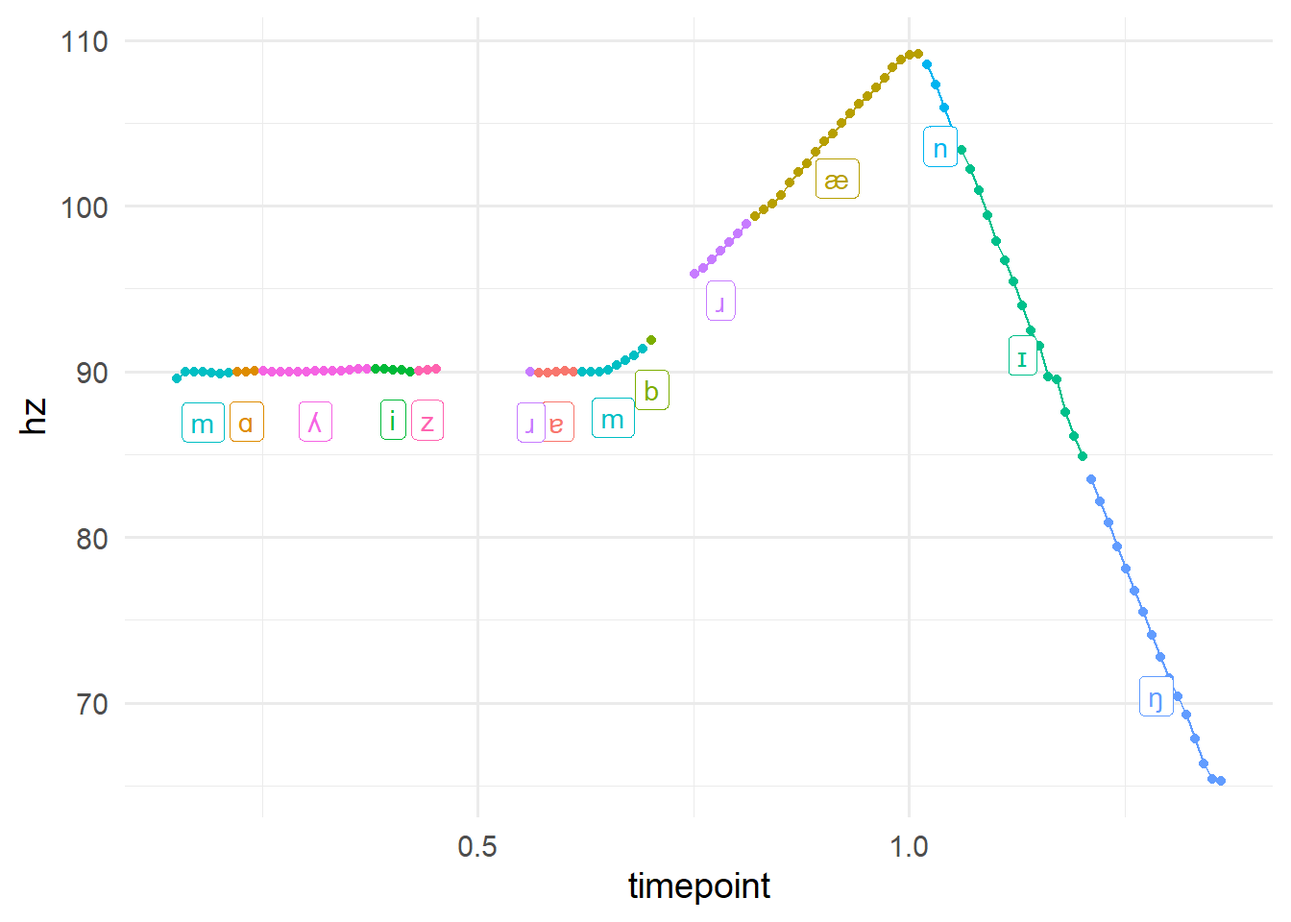
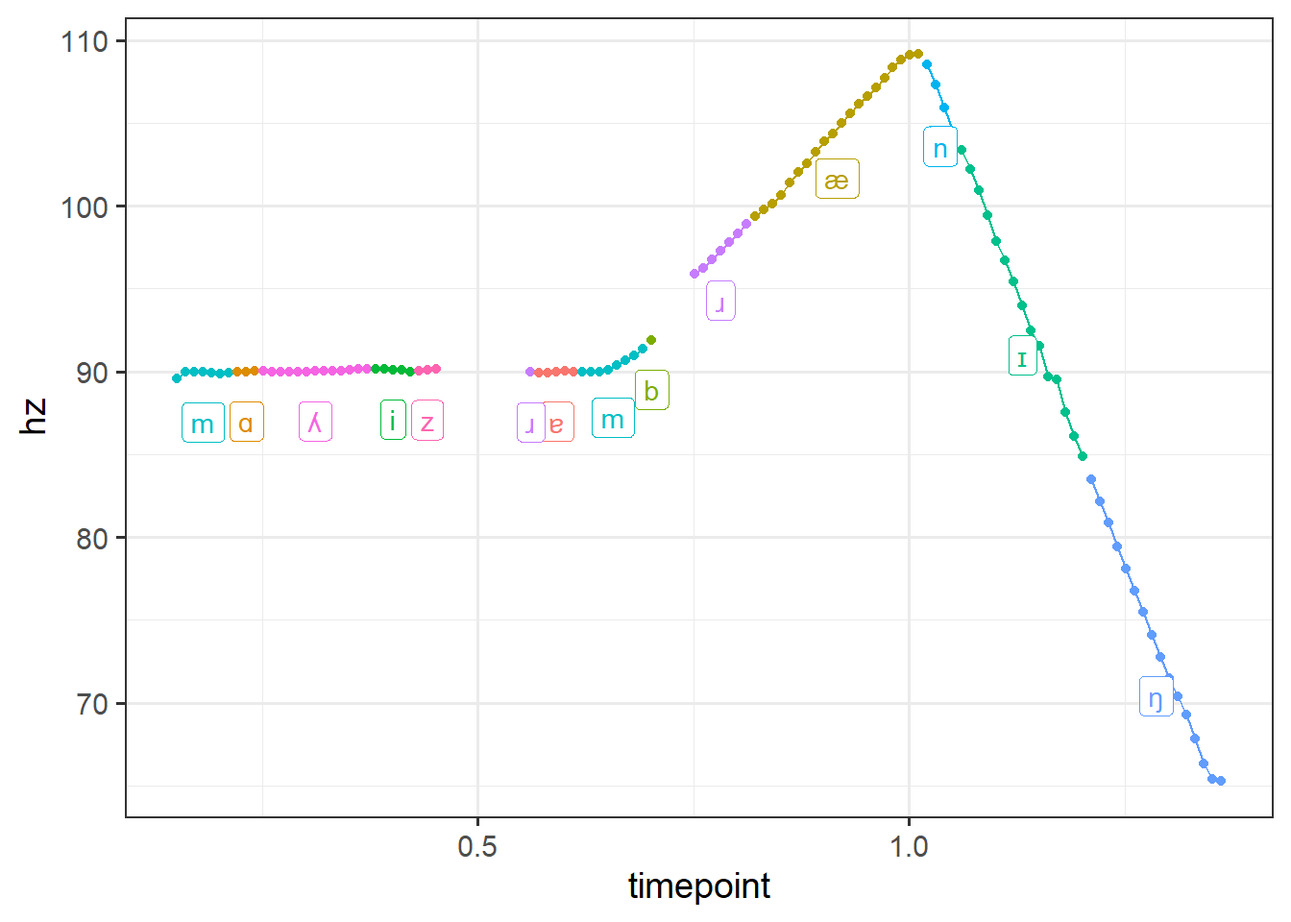
update pulse labeling with time normalizing example, citations, and session info

diff --git a/_site/posts/pulselabeling/pulse_labeling.html b/_site/posts/pulselabeling/pulse_labeling.html
@@ -86,6 +86,25 @@ code span.st { color: #4070a0; } /* String */
 code span.va { color: #19177c; } /* Variable */
 code span.vs { color: #4070a0; } /* VerbatimString */
 code span.wa { color: #60a0b0; font-weight: bold; font-style: italic; } /* Warning */
+div.csl-bib-body { }
+div.csl-entry {
+  clear: both;
+}
+.hanging div.csl-entry {
+  margin-left:2em;
+  text-indent:-2em;
+}
+div.csl-left-margin {
+  min-width:2em;
+  float:left;
+}
+div.csl-right-inline {
+  margin-left:2em;
+  padding-left:1em;
+}
+div.csl-indent {
+  margin-left: 2em;
+}
 </style>
 
 
@@ -127,6 +146,7 @@ code span.wa { color: #60a0b0; font-weight: bold; font-style: italic; } /* Warni
   }
 }</script>
 
+  <script src="https://cdn.jsdelivr.net/npm/mathjax@3/es5/tex-chtml-full.js" type="text/javascript"></script>
 
 <link rel="stylesheet" href="../../styles.css">
 </head>
@@ -218,10 +238,8 @@ code span.wa { color: #60a0b0; font-weight: bold; font-style: italic; } /* Warni
   <ul>
   <li><a href="#required-packages" id="toc-required-packages" class="nav-link active" data-scroll-target="#required-packages">Required packages</a></li>
   <li><a href="#example-with-one-file" id="toc-example-with-one-file" class="nav-link" data-scroll-target="#example-with-one-file">Example with one file</a></li>
-  <li><a href="#example-with-multiple-files" id="toc-example-with-multiple-files" class="nav-link" data-scroll-target="#example-with-multiple-files">Example with multiple files</a>
-  <ul class="collapse">
+  <li><a href="#example-with-multiple-files" id="toc-example-with-multiple-files" class="nav-link" data-scroll-target="#example-with-multiple-files">Example with multiple files</a></li>
   <li><a href="#piecewise-equal-pulses" id="toc-piecewise-equal-pulses" class="nav-link" data-scroll-target="#piecewise-equal-pulses">Piecewise equal pulses</a></li>
-  </ul></li>
   </ul>
 </nav>
     </div>
@@ -234,7 +252,7 @@ code span.wa { color: #60a0b0; font-weight: bold; font-style: italic; } /* Warni
 <p>A colleague of mine recently asked for help with a bit of a tricky problem. Pitch contours, when extracted from an acoustic signal, come in the form of a time series of discretized <em>pulses</em>: a (time, frequency) point. However, these contours occur over varying parts of the spoken sentence. In other words, the rises and falls in pitch occur over different words, syllables, and phones– all of which have varying durations. If we take a pitch contour over a single word from the productions of many speakers, then time normalize them, we don’t have access to the relative durations and landmarks of the syllables that make up the token. For instance, if two speakers rise from 110Hz to 220Hz over one syllable, this rise will be much steeper if the first syllable is 30% of the time normalized duration compared to if the first syllable is 60% of the time normalized duration. The problem then becomes two related problems:</p>
 <ol type="1">
 <li>How can we know which syllable a pulse appears in? (ie how to label the pulse with the syllable number)</li>
-<li>How can we assess a pulse’s timestamp relative to the timestamp of the syllable boundaries it occurs with? (eg how far into the syllable does the pulse occur)</li>
+<li>How can we assess a pulse’s timestamp relative to the syllable boundaries it occurs in? (eg how far into the syllable does the pulse occur)</li>
 </ol>
 <p>As it happens, this problem becomes fairly straightforward when using <a href="https://www.w3resource.com/sql/joins/perform-a-non-equi-join.php">non-equi joins</a>. These are joins (left, right, etc.) that match not merely on equivalence matching, but when more complex logical operations need to be used. In our case, we want to merge information about the pulses and their timestamps with information about the syllable boundary timestamps. We can accomplish this by joining two dataframes based on whether the pulse timestamp is between the start and end timestamps of a particular interval.</p>
 <p>In this post, I’ll show how this can be accomplished in R using the new non-equi join functionality added to <code>{dplyr}</code> version 1.1. In the process, I’ll also show off some tools from the <code>{rPraat}</code> package and the <code>{sosprosody}</code> package, which I am developing to support the analyses and data processing for my dissertation work. These packages provide some useful functionality for working with PitchTier and TextGrid objects from Praat. However, this functionality can also be accomplished through any non-equi join implementation. I’m familiar with the <code>{fuzzyjoin}</code> package, and <a href="https://www.r-bloggers.com/2021/02/the-unequalled-joy-of-non-equi-joins/">this post</a> provides some additional options.</p>
@@ -248,7 +266,7 @@ Note
 </div>
 </div>
 <div class="callout-body-container callout-body">
-<p>I am providing some resynthesized files here from my dissertation work, currently they’re not available publicly but will eventually be on the OSF as the work is published and presented. I won’t be discussing the details further in this post, but I’ll note that the phone labels were returned by the <a href="https://montreal-forced-aligner.readthedocs.io/en/latest/">Montreal Forced Aligner</a> and the syllable labels were hand coded.</p>
+<p>I am providing some resynthesized files here from my dissertation work, currently they’re not available publicly but will eventually be on the OSF as the work is published and presented. I won’t be discussing the details further in this post, but I’ll note that the phone labels were returned by the <a href="https://montreal-forced-aligner.readthedocs.io/en/latest/">Montreal Forced Aligner</a> (<span class="citation" data-cites="mfa">McAuliffe et al. (<a href="#ref-mfa" role="doc-biblioref">2017</a>)</span>) and the syllable labels were hand coded.</p>
 </div>
 </div>
 <section id="required-packages" class="level2">
@@ -277,8 +295,8 @@ Note
 </details>
 </div>
 </section>
-<section id="example-with-one-file" class="level1 page-columns page-full">
-<h1>Example with one file</h1>
+<section id="example-with-one-file" class="level2 page-columns page-full">
+<h2 class="anchored" data-anchor-id="example-with-one-file">Example with one file</h2>
 <p>Our goal: Associate each pitch pulse with an interval on a tier from a TextGrid.</p>
 <p>The approach: Non-equi joins. Given a dataframe for the pitch pulses and a dataframe for a tier from a TextGrid, when a pitch pulse <code>timepoint</code> lies between <code>interval_start</code> and <code>interval_end</code>, join <code>interval_start</code>, <code>interval_end</code>, and the interval <code>label</code>.</p>
 <p>First we’ll load our files, located in the <code>Files</code> directory. Because I’m working with just one example right now, I’ll write the strings out directly.</p>
@@ -301,7 +319,7 @@ Note
 </div>
 <div class="panel-center panel-grid page-columns page-full">
 <div class="g-col-24 g-col-lg-20 g-start-lg-2 page-columns page-full">
-<div class="cell panel-center column-body-outset">
+<div class="cell panel-center column-body-outset-right">
 <div class="cell-output cell-output-stdout">
 <pre><code>branning_1.PitchTier: 108 total pitch pulses.
 109|                                                                           |
@@ -397,7 +415,7 @@ Note
 <span id="cb13-2"><a href="#cb13-2" aria-hidden="true" tabindex="-1"></a>  <span class="fu">ggplot</span>(<span class="fu">aes</span>(<span class="at">x =</span> timepoint, <span class="at">y =</span> hz, <span class="at">color =</span> label, <span class="at">group =</span> interval_i)) <span class="sc">+</span></span>
 <span id="cb13-3"><a href="#cb13-3" aria-hidden="true" tabindex="-1"></a>  <span class="fu">geom_line</span>() <span class="sc">+</span></span>
 <span id="cb13-4"><a href="#cb13-4" aria-hidden="true" tabindex="-1"></a>  <span class="fu">geom_point</span>() <span class="sc">+</span></span>
-<span id="cb13-5"><a href="#cb13-5" aria-hidden="true" tabindex="-1"></a>  <span class="fu">theme_minimal</span>(<span class="at">base_size =</span> <span class="dv">14</span>) <span class="sc">+</span></span>
+<span id="cb13-5"><a href="#cb13-5" aria-hidden="true" tabindex="-1"></a>  <span class="fu">theme_bw</span>(<span class="at">base_size =</span> <span class="dv">14</span>) <span class="sc">+</span></span>
 <span id="cb13-6"><a href="#cb13-6" aria-hidden="true" tabindex="-1"></a>  <span class="co"># Add labels since there's a lot of colors</span></span>
 <span id="cb13-7"><a href="#cb13-7" aria-hidden="true" tabindex="-1"></a>  <span class="fu">geom_label</span>(<span class="at">data =</span> <span class="fu">summarize</span>(<span class="fu">group_by</span>(labeled_df, label, interval_i),</span>
 <span id="cb13-8"><a href="#cb13-8" aria-hidden="true" tabindex="-1"></a>                              <span class="at">timepoint =</span> <span class="fu">median</span>(timepoint),</span>
@@ -411,8 +429,8 @@ Note
 </div>
 <p>Looks great! Now we can adapt this same basic workflow of loading our Praat objects, converting to dataframes, and doing a non-equi join and apply it to all the files in a directory. Note that if you extracted F0 measurements using a method other than exporting PitchTier files from Praat, then you can still do all the same steps above but just omit the part where you read in the PitchTier files. Ultimately, all we’re looking for is a dataframe that says what file(s) we have, what the pulse timepoints are, and what the frequency values at those timepoints are; how we get there doesn’t really matter.</p>
 </section>
-<section id="example-with-multiple-files" class="level1">
-<h1>Example with multiple files</h1>
+<section id="example-with-multiple-files" class="level2">
+<h2 class="anchored" data-anchor-id="example-with-multiple-files">Example with multiple files</h2>
 <p>Here’s a pretty basic wrapper that encapsulates all of the previous steps into one function and operates over all the files in given directories containing TextGrids and PitchTiers.</p>
 <div class="callout-tip callout callout-style-default callout-captioned">
 <div class="callout-header d-flex align-content-center">
@@ -476,24 +494,24 @@ Tip
 <span id="cb14-44"><a href="#cb14-44" aria-hidden="true" tabindex="-1"></a>}</span></code><button title="Copy to Clipboard" class="code-copy-button"><i class="bi"></i></button></pre></div>
 </details>
 </div>
-<p>And now the helper can be used to process all of our files. If we needed to repeat this across, say, many production studies then this helper would save us a lot of copy-pasting.</p>
+<p>And now the helper can be used to process all of our files; we’ll use it again later when we start working with syllables instead of phones.</p>
 <div class="cell">
 <details open="">
 <summary>Code</summary>
-<div class="sourceCode cell-code" id="cb15"><pre class="sourceCode r code-with-copy"><code class="sourceCode r"><span id="cb15-1"><a href="#cb15-1" aria-hidden="true" tabindex="-1"></a>all_labeled_files <span class="ot">&lt;-</span> <span class="fu">label_pitch_pulses</span>()</span></code><button title="Copy to Clipboard" class="code-copy-button"><i class="bi"></i></button></pre></div>
+<div class="sourceCode cell-code" id="cb15"><pre class="sourceCode r code-with-copy"><code class="sourceCode r"><span id="cb15-1"><a href="#cb15-1" aria-hidden="true" tabindex="-1"></a>phone_labeled_df <span class="ot">&lt;-</span> <span class="fu">label_pitch_pulses</span>()</span></code><button title="Copy to Clipboard" class="code-copy-button"><i class="bi"></i></button></pre></div>
 </details>
 </div>
 <p>As before, we can plot the pitch contours for each of our files to check our work.</p>
 <div class="cell">
 <details open="">
 <summary>Code</summary>
-<div class="sourceCode cell-code" id="cb16"><pre class="sourceCode r code-with-copy"><code class="sourceCode r"><span id="cb16-1"><a href="#cb16-1" aria-hidden="true" tabindex="-1"></a>all_labeled_files <span class="sc">|&gt;</span> </span>
+<div class="sourceCode cell-code" id="cb16"><pre class="sourceCode r code-with-copy"><code class="sourceCode r"><span id="cb16-1"><a href="#cb16-1" aria-hidden="true" tabindex="-1"></a>phone_labeled_df <span class="sc">|&gt;</span> </span>
 <span id="cb16-2"><a href="#cb16-2" aria-hidden="true" tabindex="-1"></a>  <span class="fu">ggplot</span>(<span class="fu">aes</span>(<span class="at">x =</span> timepoint, <span class="at">y =</span> hz, <span class="at">group =</span> interval_i, <span class="at">color =</span> label)) <span class="sc">+</span></span>
 <span id="cb16-3"><a href="#cb16-3" aria-hidden="true" tabindex="-1"></a>  <span class="fu">geom_line</span>() <span class="sc">+</span></span>
 <span id="cb16-4"><a href="#cb16-4" aria-hidden="true" tabindex="-1"></a>  <span class="fu">geom_point</span>(<span class="at">size =</span> .<span class="dv">5</span>) <span class="sc">+</span></span>
 <span id="cb16-5"><a href="#cb16-5" aria-hidden="true" tabindex="-1"></a>  <span class="fu">facet_wrap</span>(<span class="sc">~</span>file) <span class="sc">+</span></span>
-<span id="cb16-6"><a href="#cb16-6" aria-hidden="true" tabindex="-1"></a>  <span class="fu">theme_minimal</span>(<span class="at">base_size =</span> <span class="dv">14</span>) <span class="sc">+</span></span>
-<span id="cb16-7"><a href="#cb16-7" aria-hidden="true" tabindex="-1"></a>  <span class="fu">geom_text</span>(<span class="at">data =</span> <span class="fu">summarize</span>(<span class="fu">group_by</span>(all_labeled_files, file, label, interval_i),</span>
+<span id="cb16-6"><a href="#cb16-6" aria-hidden="true" tabindex="-1"></a>  <span class="fu">theme_bw</span>(<span class="at">base_size =</span> <span class="dv">14</span>) <span class="sc">+</span></span>
+<span id="cb16-7"><a href="#cb16-7" aria-hidden="true" tabindex="-1"></a>  <span class="fu">geom_text</span>(<span class="at">data =</span> <span class="fu">summarize</span>(<span class="fu">group_by</span>(phone_labeled_df, file, label, interval_i),</span>
 <span id="cb16-8"><a href="#cb16-8" aria-hidden="true" tabindex="-1"></a>                             <span class="at">timepoint =</span> <span class="fu">median</span>(timepoint),</span>
 <span id="cb16-9"><a href="#cb16-9" aria-hidden="true" tabindex="-1"></a>                             <span class="at">hz =</span> <span class="fu">median</span>(hz) <span class="sc">-</span> <span class="dv">4</span>),</span>
 <span id="cb16-10"><a href="#cb16-10" aria-hidden="true" tabindex="-1"></a>            <span class="fu">aes</span>(<span class="at">label =</span> label)) <span class="sc">+</span></span>
@@ -505,6 +523,7 @@ Tip
 </div>
 </div>
 <p>Next I’ll show an example of how this might be useful beyond just labeling and coloring our pitch contours by interval.</p>
+</section>
 <section id="piecewise-equal-pulses" class="level2">
 <h2 class="anchored" data-anchor-id="piecewise-equal-pulses">Piecewise equal pulses</h2>
 <p>This is an example using the <code>piecewise_interpolate_pulses</code> function<a href="#fn2" class="footnote-ref" id="fnref2" role="doc-noteref"><sup>2</sup></a> from <code>sosprosody</code> to get equally spaced pulses within each section.<a href="#fn3" class="footnote-ref" id="fnref3" role="doc-noteref"><sup>3</sup></a> Here I’ll get 50 equally spaced pulses for each syllable in all of our words (which are all two syllables).</p>
@@ -524,39 +543,26 @@ Tip
 <div class="cell">
 <details open="">
 <summary>Code</summary>
-<div class="sourceCode cell-code" id="cb17"><pre class="sourceCode r code-with-copy"><code class="sourceCode r"><span id="cb17-1"><a href="#cb17-1" aria-hidden="true" tabindex="-1"></a><span class="co"># Switch to using syllable tier instead</span></span>
-<span id="cb17-2"><a href="#cb17-2" aria-hidden="true" tabindex="-1"></a>tier_df <span class="ot">&lt;-</span> tiers<span class="sc">$</span>syllable</span>
-<span id="cb17-3"><a href="#cb17-3" aria-hidden="true" tabindex="-1"></a></span>
-<span id="cb17-4"><a href="#cb17-4" aria-hidden="true" tabindex="-1"></a><span class="co"># Small post processing steps</span></span>
-<span id="cb17-5"><a href="#cb17-5" aria-hidden="true" tabindex="-1"></a>tier_df<span class="sc">$</span>file <span class="ot">&lt;-</span> <span class="fu">gsub</span>(<span class="st">".TextGrid"</span>, <span class="st">""</span>, tier_df<span class="sc">$</span>file, <span class="at">perl =</span> <span class="cn">TRUE</span>)</span>
-<span id="cb17-6"><a href="#cb17-6" aria-hidden="true" tabindex="-1"></a>tier_df<span class="sc">$</span>interval_i <span class="ot">&lt;-</span> <span class="fu">seq_len</span>(<span class="fu">nrow</span>(tier_df))</span>
-<span id="cb17-7"><a href="#cb17-7" aria-hidden="true" tabindex="-1"></a></span>
-<span id="cb17-8"><a href="#cb17-8" aria-hidden="true" tabindex="-1"></a>labeled_df2 <span class="ot">&lt;-</span> </span>
-<span id="cb17-9"><a href="#cb17-9" aria-hidden="true" tabindex="-1"></a>  <span class="fu">left_join</span>(pt_df, </span>
-<span id="cb17-10"><a href="#cb17-10" aria-hidden="true" tabindex="-1"></a>            tier_df, </span>
-<span id="cb17-11"><a href="#cb17-11" aria-hidden="true" tabindex="-1"></a>            <span class="fu">join_by</span>(file, </span>
-<span id="cb17-12"><a href="#cb17-12" aria-hidden="true" tabindex="-1"></a>                    timepoint <span class="sc">&gt;=</span> interval_start, </span>
-<span id="cb17-13"><a href="#cb17-13" aria-hidden="true" tabindex="-1"></a>                    timepoint <span class="sc">&lt;</span> interval_end))</span>
-<span id="cb17-14"><a href="#cb17-14" aria-hidden="true" tabindex="-1"></a></span>
-<span id="cb17-15"><a href="#cb17-15" aria-hidden="true" tabindex="-1"></a>labeled_df2 <span class="sc">|&gt;</span> </span>
-<span id="cb17-16"><a href="#cb17-16" aria-hidden="true" tabindex="-1"></a>  dplyr<span class="sc">::</span><span class="fu">filter</span>(label <span class="sc">!=</span> <span class="st">""</span>) <span class="sc">|&gt;</span>  <span class="co"># Remove prenuclear material with blank label</span></span>
-<span id="cb17-17"><a href="#cb17-17" aria-hidden="true" tabindex="-1"></a>  <span class="co"># Get fifty equally spaced pulses by interval</span></span>
-<span id="cb17-18"><a href="#cb17-18" aria-hidden="true" tabindex="-1"></a>  sosprosody<span class="sc">::</span><span class="fu">piecewise_interpolate_pulses</span>(<span class="at">section_by =</span> <span class="st">"interval_i"</span>,</span>
-<span id="cb17-19"><a href="#cb17-19" aria-hidden="true" tabindex="-1"></a>                                           <span class="at">pulses_per_section =</span> <span class="dv">50</span>,</span>
-<span id="cb17-20"><a href="#cb17-20" aria-hidden="true" tabindex="-1"></a>                                           <span class="at">time_by =</span> <span class="st">"timepoint"</span>,</span>
-<span id="cb17-21"><a href="#cb17-21" aria-hidden="true" tabindex="-1"></a>                                           <span class="at">.pitchval =</span> <span class="st">"hz"</span>,</span>
-<span id="cb17-22"><a href="#cb17-22" aria-hidden="true" tabindex="-1"></a>                                           <span class="at">.grouping =</span> <span class="st">"file"</span>) <span class="sc">|&gt;</span> </span>
-<span id="cb17-23"><a href="#cb17-23" aria-hidden="true" tabindex="-1"></a>  <span class="fu">ggplot</span>(<span class="fu">aes</span>(<span class="at">x =</span> timepoint, <span class="at">y =</span> hz, <span class="at">color=</span> <span class="fu">factor</span>(interval_i), <span class="at">shape =</span> interval_i)) <span class="sc">+</span></span>
-<span id="cb17-24"><a href="#cb17-24" aria-hidden="true" tabindex="-1"></a>  <span class="fu">geom_line</span>() <span class="sc">+</span></span>
-<span id="cb17-25"><a href="#cb17-25" aria-hidden="true" tabindex="-1"></a>  <span class="fu">geom_point</span>(<span class="at">size =</span> <span class="dv">2</span>) <span class="sc">+</span></span>
-<span id="cb17-26"><a href="#cb17-26" aria-hidden="true" tabindex="-1"></a>  <span class="fu">theme_minimal</span>(<span class="at">base_size =</span> <span class="dv">14</span>) <span class="sc">+</span></span>
-<span id="cb17-27"><a href="#cb17-27" aria-hidden="true" tabindex="-1"></a>  <span class="fu">theme</span>(<span class="at">legend.position =</span> <span class="st">'none'</span>) <span class="sc">+</span></span>
-<span id="cb17-28"><a href="#cb17-28" aria-hidden="true" tabindex="-1"></a>  <span class="fu">annotate</span>(<span class="at">geom =</span> <span class="st">"text"</span>,</span>
-<span id="cb17-29"><a href="#cb17-29" aria-hidden="true" tabindex="-1"></a>           <span class="at">x =</span> <span class="fu">c</span>(.<span class="dv">8</span>, <span class="fl">1.1</span>),</span>
-<span id="cb17-30"><a href="#cb17-30" aria-hidden="true" tabindex="-1"></a>           <span class="at">y =</span> <span class="fu">c</span>(<span class="dv">90</span>, <span class="dv">90</span>),</span>
-<span id="cb17-31"><a href="#cb17-31" aria-hidden="true" tabindex="-1"></a>           <span class="at">color =</span> <span class="fu">c</span>(<span class="st">'firebrick'</span>,<span class="st">'dodgerblue4'</span>),</span>
-<span id="cb17-32"><a href="#cb17-32" aria-hidden="true" tabindex="-1"></a>           <span class="at">label =</span> <span class="fu">c</span>(<span class="st">"Syl1"</span>,<span class="st">"Syl2"</span>),</span>
-<span id="cb17-33"><a href="#cb17-33" aria-hidden="true" tabindex="-1"></a>           <span class="at">size =</span> <span class="dv">10</span>) </span></code><button title="Copy to Clipboard" class="code-copy-button"><i class="bi"></i></button></pre></div>
+<div class="sourceCode cell-code" id="cb17"><pre class="sourceCode r code-with-copy"><code class="sourceCode r"><span id="cb17-1"><a href="#cb17-1" aria-hidden="true" tabindex="-1"></a>syllable_labeled_df <span class="ot">&lt;-</span> </span>
+<span id="cb17-2"><a href="#cb17-2" aria-hidden="true" tabindex="-1"></a>  <span class="fu">label_pitch_pulses</span>(<span class="at">tier =</span> <span class="st">'syllable'</span>) <span class="sc">|&gt;</span> </span>
+<span id="cb17-3"><a href="#cb17-3" aria-hidden="true" tabindex="-1"></a>  dplyr<span class="sc">::</span><span class="fu">filter</span>(interval_i <span class="sc">!=</span> <span class="dv">1</span>) <span class="sc">|&gt;</span> </span>
+<span id="cb17-4"><a href="#cb17-4" aria-hidden="true" tabindex="-1"></a>  <span class="fu">rename</span>(<span class="at">syllable =</span> label)</span>
+<span id="cb17-5"><a href="#cb17-5" aria-hidden="true" tabindex="-1"></a></span>
+<span id="cb17-6"><a href="#cb17-6" aria-hidden="true" tabindex="-1"></a>syllable_labeled_df <span class="sc">|&gt;</span> </span>
+<span id="cb17-7"><a href="#cb17-7" aria-hidden="true" tabindex="-1"></a>  <span class="co"># dplyr::filter(label != "") |&gt;  # Remove prenuclear material with blank label</span></span>
+<span id="cb17-8"><a href="#cb17-8" aria-hidden="true" tabindex="-1"></a>  <span class="co"># Get fifty equally spaced pulses by interval</span></span>
+<span id="cb17-9"><a href="#cb17-9" aria-hidden="true" tabindex="-1"></a>  sosprosody<span class="sc">::</span><span class="fu">piecewise_interpolate_pulses</span>(<span class="at">section_by =</span> <span class="st">"syllable"</span>,</span>
+<span id="cb17-10"><a href="#cb17-10" aria-hidden="true" tabindex="-1"></a>                                           <span class="at">pulses_per_section =</span> <span class="dv">50</span>,</span>
+<span id="cb17-11"><a href="#cb17-11" aria-hidden="true" tabindex="-1"></a>                                           <span class="at">time_by =</span> <span class="st">"timepoint"</span>,</span>
+<span id="cb17-12"><a href="#cb17-12" aria-hidden="true" tabindex="-1"></a>                                           <span class="at">.pitchval =</span> <span class="st">"hz"</span>,</span>
+<span id="cb17-13"><a href="#cb17-13" aria-hidden="true" tabindex="-1"></a>                                           <span class="at">.grouping =</span> <span class="st">"file"</span>) <span class="sc">|&gt;</span> </span>
+<span id="cb17-14"><a href="#cb17-14" aria-hidden="true" tabindex="-1"></a>  <span class="fu">ggplot</span>(<span class="fu">aes</span>(<span class="at">x =</span> timepoint, <span class="at">y =</span> hz, <span class="at">color=</span> syllable, <span class="at">shape =</span> syllable)) <span class="sc">+</span></span>
+<span id="cb17-15"><a href="#cb17-15" aria-hidden="true" tabindex="-1"></a>  <span class="fu">geom_line</span>() <span class="sc">+</span></span>
+<span id="cb17-16"><a href="#cb17-16" aria-hidden="true" tabindex="-1"></a>  <span class="fu">geom_point</span>(<span class="at">size =</span> <span class="dv">2</span>) <span class="sc">+</span></span>
+<span id="cb17-17"><a href="#cb17-17" aria-hidden="true" tabindex="-1"></a>  <span class="fu">theme_bw</span>(<span class="at">base_size =</span> <span class="dv">14</span>) <span class="sc">+</span></span>
+<span id="cb17-18"><a href="#cb17-18" aria-hidden="true" tabindex="-1"></a>  <span class="fu">theme</span>(<span class="at">legend.position =</span> <span class="st">'type'</span>) <span class="sc">+</span></span>
+<span id="cb17-19"><a href="#cb17-19" aria-hidden="true" tabindex="-1"></a>  <span class="fu">facet_wrap</span>(<span class="sc">~</span>file) <span class="sc">+</span></span>
+<span id="cb17-20"><a href="#cb17-20" aria-hidden="true" tabindex="-1"></a>  <span class="fu">coord_fixed</span>(<span class="dv">1</span><span class="sc">/</span><span class="dv">50</span>)</span></code><button title="Copy to Clipboard" class="code-copy-button"><i class="bi"></i></button></pre></div>
 </details>
 <div class="cell-output-display">
 <p><img src="pulse_labeling_files/figure-html/unnamed-chunk-7-1.png" class="img-fluid" width="672"></p>
@@ -566,44 +572,116 @@ Tip
 <div class="cell">
 <details open="">
 <summary>Code</summary>
-<div class="sourceCode cell-code" id="cb18"><pre class="sourceCode r code-with-copy"><code class="sourceCode r"><span id="cb18-1"><a href="#cb18-1" aria-hidden="true" tabindex="-1"></a>labeled_df2 <span class="sc">|&gt;</span> </span>
-<span id="cb18-2"><a href="#cb18-2" aria-hidden="true" tabindex="-1"></a>  dplyr<span class="sc">::</span><span class="fu">filter</span>(label <span class="sc">!=</span> <span class="st">""</span>) <span class="sc">|&gt;</span>  <span class="co"># Remove prenuclear material with blank label</span></span>
-<span id="cb18-3"><a href="#cb18-3" aria-hidden="true" tabindex="-1"></a>  <span class="co"># Get different numbers of pulses by interval</span></span>
-<span id="cb18-4"><a href="#cb18-4" aria-hidden="true" tabindex="-1"></a>  sosprosody<span class="sc">::</span><span class="fu">piecewise_interpolate_pulses</span>(<span class="at">section_by =</span> <span class="st">"interval_i"</span>,</span>
-<span id="cb18-5"><a href="#cb18-5" aria-hidden="true" tabindex="-1"></a>                                           <span class="at">pulses_per_section =</span> <span class="fu">c</span>(<span class="st">'2'</span> <span class="ot">=</span> <span class="dv">10</span>,</span>
-<span id="cb18-6"><a href="#cb18-6" aria-hidden="true" tabindex="-1"></a>                                                                  <span class="st">'3'</span> <span class="ot">=</span> <span class="dv">40</span>),</span>
-<span id="cb18-7"><a href="#cb18-7" aria-hidden="true" tabindex="-1"></a>                                           <span class="at">time_by =</span> <span class="st">"timepoint"</span>,</span>
-<span id="cb18-8"><a href="#cb18-8" aria-hidden="true" tabindex="-1"></a>                                           <span class="at">.grouping =</span> <span class="st">"file"</span>) <span class="sc">|&gt;</span> </span>
-<span id="cb18-9"><a href="#cb18-9" aria-hidden="true" tabindex="-1"></a>  <span class="fu">ggplot</span>(<span class="fu">aes</span>(<span class="at">x =</span> timepoint, <span class="at">y =</span> hz, <span class="at">color=</span> <span class="fu">factor</span>(interval_i))) <span class="sc">+</span></span>
-<span id="cb18-10"><a href="#cb18-10" aria-hidden="true" tabindex="-1"></a>  <span class="fu">geom_line</span>() <span class="sc">+</span></span>
-<span id="cb18-11"><a href="#cb18-11" aria-hidden="true" tabindex="-1"></a>  <span class="fu">geom_point</span>(<span class="at">size =</span> <span class="dv">2</span>) <span class="sc">+</span></span>
-<span id="cb18-12"><a href="#cb18-12" aria-hidden="true" tabindex="-1"></a>  <span class="fu">theme_minimal</span>(<span class="at">base_size =</span> <span class="dv">14</span>) <span class="sc">+</span></span>
-<span id="cb18-13"><a href="#cb18-13" aria-hidden="true" tabindex="-1"></a>  <span class="fu">theme</span>(<span class="at">legend.position =</span> <span class="st">'none'</span>) <span class="sc">+</span></span>
-<span id="cb18-14"><a href="#cb18-14" aria-hidden="true" tabindex="-1"></a>  <span class="fu">annotate</span>(<span class="at">geom =</span> <span class="st">"text"</span>,</span>
-<span id="cb18-15"><a href="#cb18-15" aria-hidden="true" tabindex="-1"></a>           <span class="at">x =</span> <span class="fu">c</span>(.<span class="dv">8</span>, <span class="fl">1.1</span>),</span>
-<span id="cb18-16"><a href="#cb18-16" aria-hidden="true" tabindex="-1"></a>           <span class="at">y =</span> <span class="fu">c</span>(<span class="dv">90</span>, <span class="dv">90</span>),</span>
-<span id="cb18-17"><a href="#cb18-17" aria-hidden="true" tabindex="-1"></a>           <span class="at">color =</span> <span class="fu">c</span>(<span class="st">'firebrick'</span>,<span class="st">'dodgerblue4'</span>),</span>
-<span id="cb18-18"><a href="#cb18-18" aria-hidden="true" tabindex="-1"></a>           <span class="at">label =</span> <span class="fu">c</span>(<span class="st">"Syl1"</span>,<span class="st">"Syl2"</span>),</span>
-<span id="cb18-19"><a href="#cb18-19" aria-hidden="true" tabindex="-1"></a>           <span class="at">size =</span> <span class="dv">10</span>) </span></code><button title="Copy to Clipboard" class="code-copy-button"><i class="bi"></i></button></pre></div>
+<div class="sourceCode cell-code" id="cb18"><pre class="sourceCode r code-with-copy"><code class="sourceCode r"><span id="cb18-1"><a href="#cb18-1" aria-hidden="true" tabindex="-1"></a>syllable_labeled_df <span class="sc">|&gt;</span> </span>
+<span id="cb18-2"><a href="#cb18-2" aria-hidden="true" tabindex="-1"></a>  <span class="co"># Get different numbers of pulses by interval</span></span>
+<span id="cb18-3"><a href="#cb18-3" aria-hidden="true" tabindex="-1"></a>  sosprosody<span class="sc">::</span><span class="fu">piecewise_interpolate_pulses</span>(<span class="at">section_by =</span> <span class="st">"syllable"</span>,</span>
+<span id="cb18-4"><a href="#cb18-4" aria-hidden="true" tabindex="-1"></a>                                           <span class="at">pulses_per_section =</span> <span class="fu">c</span>(<span class="st">'1'</span> <span class="ot">=</span> <span class="dv">10</span>,</span>
+<span id="cb18-5"><a href="#cb18-5" aria-hidden="true" tabindex="-1"></a>                                                                  <span class="st">'2'</span> <span class="ot">=</span> <span class="dv">40</span>),</span>
+<span id="cb18-6"><a href="#cb18-6" aria-hidden="true" tabindex="-1"></a>                                           <span class="at">time_by =</span> <span class="st">"timepoint"</span>,</span>
+<span id="cb18-7"><a href="#cb18-7" aria-hidden="true" tabindex="-1"></a>                                           <span class="at">.grouping =</span> <span class="st">"file"</span>) <span class="sc">|&gt;</span> </span>
+<span id="cb18-8"><a href="#cb18-8" aria-hidden="true" tabindex="-1"></a>  <span class="fu">ggplot</span>(<span class="fu">aes</span>(<span class="at">x =</span> timepoint,</span>
+<span id="cb18-9"><a href="#cb18-9" aria-hidden="true" tabindex="-1"></a>             <span class="at">y =</span> hz,</span>
+<span id="cb18-10"><a href="#cb18-10" aria-hidden="true" tabindex="-1"></a>             <span class="at">group =</span> file,</span>
+<span id="cb18-11"><a href="#cb18-11" aria-hidden="true" tabindex="-1"></a>             <span class="at">color =</span> syllable, </span>
+<span id="cb18-12"><a href="#cb18-12" aria-hidden="true" tabindex="-1"></a>             <span class="at">shape =</span> syllable)) <span class="sc">+</span></span>
+<span id="cb18-13"><a href="#cb18-13" aria-hidden="true" tabindex="-1"></a>  <span class="fu">geom_line</span>() <span class="sc">+</span></span>
+<span id="cb18-14"><a href="#cb18-14" aria-hidden="true" tabindex="-1"></a>  <span class="fu">geom_point</span>(<span class="at">size =</span> <span class="dv">2</span>) <span class="sc">+</span></span>
+<span id="cb18-15"><a href="#cb18-15" aria-hidden="true" tabindex="-1"></a>  <span class="fu">theme_bw</span>(<span class="at">base_size =</span> <span class="dv">14</span>) <span class="sc">+</span></span>
+<span id="cb18-16"><a href="#cb18-16" aria-hidden="true" tabindex="-1"></a>  <span class="fu">theme</span>(<span class="at">legend.position =</span> <span class="st">'top'</span>)</span></code><button title="Copy to Clipboard" class="code-copy-button"><i class="bi"></i></button></pre></div>
 </details>
 <div class="cell-output-display">
 <p><img src="pulse_labeling_files/figure-html/unnamed-chunk-8-1.png" class="img-fluid" width="672"></p>
 </div>
 </div>
+<p>In the above plot, we can tell that at least one of the files have a pitch contour that starts a bit later than the others given the raw time on the x axis. This arises due to the slightly longer prenuclear material present in that utterance (the other two files were resynthesized from the same source file). We can time normalize these files such that the first syllable from each contour is directly comparable, i.e., they’ll all start at 0 and end at 1. And we can do that separately for the second syllable too. It’s more typical to time normalize by the duration of an entire word or utterance, but we’ll work with a more narrow case of time normalizing within each syllable. We address this problem with with much of the tools we’ve already used so far. Below I use the <code>time_normalize</code> function from <code>sosprosody</code>, which is a convenience wrapper that does the subtraction and division operations for time normalizing.<a href="#fn5" class="footnote-ref" id="fnref5" role="doc-noteref"><sup>5</sup></a></p>
+<div class="cell">
+<details open="">
+<summary>Code</summary>
+<div class="sourceCode cell-code" id="cb19"><pre class="sourceCode r code-with-copy"><code class="sourceCode r"><span id="cb19-1"><a href="#cb19-1" aria-hidden="true" tabindex="-1"></a><span class="co"># Time normalize by syllable</span></span>
+<span id="cb19-2"><a href="#cb19-2" aria-hidden="true" tabindex="-1"></a>syllable_labeled_df <span class="sc">|&gt;</span> </span>
+<span id="cb19-3"><a href="#cb19-3" aria-hidden="true" tabindex="-1"></a>  <span class="fu">group_by</span>(file, interval_i) <span class="sc">|&gt;</span> </span>
+<span id="cb19-4"><a href="#cb19-4" aria-hidden="true" tabindex="-1"></a>  <span class="fu">time_normalize</span>(<span class="at">.to =</span> <span class="st">'time_norm'</span>) <span class="sc">|&gt;</span> </span>
+<span id="cb19-5"><a href="#cb19-5" aria-hidden="true" tabindex="-1"></a>  sosprosody<span class="sc">::</span><span class="fu">piecewise_interpolate_pulses</span>(<span class="at">section_by =</span> <span class="st">"syllable"</span>,</span>
+<span id="cb19-6"><a href="#cb19-6" aria-hidden="true" tabindex="-1"></a>                                           <span class="at">pulses_per_section =</span> <span class="fu">c</span>(<span class="st">'1'</span> <span class="ot">=</span> <span class="dv">10</span>,</span>
+<span id="cb19-7"><a href="#cb19-7" aria-hidden="true" tabindex="-1"></a>                                                                  <span class="st">'2'</span> <span class="ot">=</span> <span class="dv">40</span>),</span>
+<span id="cb19-8"><a href="#cb19-8" aria-hidden="true" tabindex="-1"></a>                                           <span class="at">time_by =</span> <span class="st">"time_norm"</span>,</span>
+<span id="cb19-9"><a href="#cb19-9" aria-hidden="true" tabindex="-1"></a>                                           <span class="at">.grouping =</span> <span class="st">"file"</span>) <span class="sc">|&gt;</span> </span>
+<span id="cb19-10"><a href="#cb19-10" aria-hidden="true" tabindex="-1"></a>  <span class="fu">ggplot</span>(<span class="fu">aes</span>(<span class="at">x =</span> time_norm,</span>
+<span id="cb19-11"><a href="#cb19-11" aria-hidden="true" tabindex="-1"></a>             <span class="at">y =</span> hz,</span>
+<span id="cb19-12"><a href="#cb19-12" aria-hidden="true" tabindex="-1"></a>             <span class="at">group =</span> file,</span>
+<span id="cb19-13"><a href="#cb19-13" aria-hidden="true" tabindex="-1"></a>             <span class="at">color =</span> syllable, </span>
+<span id="cb19-14"><a href="#cb19-14" aria-hidden="true" tabindex="-1"></a>             <span class="at">shape =</span> syllable)) <span class="sc">+</span></span>
+<span id="cb19-15"><a href="#cb19-15" aria-hidden="true" tabindex="-1"></a>  <span class="fu">geom_line</span>() <span class="sc">+</span></span>
+<span id="cb19-16"><a href="#cb19-16" aria-hidden="true" tabindex="-1"></a>  <span class="fu">geom_point</span>(<span class="at">size =</span> <span class="dv">2</span>) <span class="sc">+</span></span>
+<span id="cb19-17"><a href="#cb19-17" aria-hidden="true" tabindex="-1"></a>  <span class="fu">theme_bw</span>(<span class="at">base_size =</span> <span class="dv">14</span>) <span class="sc">+</span></span>
+<span id="cb19-18"><a href="#cb19-18" aria-hidden="true" tabindex="-1"></a>  <span class="fu">theme</span>(<span class="at">legend.position =</span> <span class="st">'top'</span>) <span class="sc">+</span></span>
+<span id="cb19-19"><a href="#cb19-19" aria-hidden="true" tabindex="-1"></a>  <span class="fu">facet_wrap</span>(<span class="sc">~</span>syllable) <span class="sc">+</span></span>
+<span id="cb19-20"><a href="#cb19-20" aria-hidden="true" tabindex="-1"></a>  <span class="fu">coord_fixed</span>(<span class="dv">1</span><span class="sc">/</span><span class="dv">50</span>)</span></code><button title="Copy to Clipboard" class="code-copy-button"><i class="bi"></i></button></pre></div>
+</details>
+<div class="cell-output-display">
+<p><img src="pulse_labeling_files/figure-html/unnamed-chunk-9-1.png" class="img-fluid" width="672"></p>
+</div>
+</div>
 <p>And that’s all! If you’d like to see a bigger example of how it might be useful to label regions of a pitch contour or extract equally spaced samples, you can take a look at the plots on <a href="https://www.tsostarics.com/research/2022_midphon/Sostarics-2022-Midphon.png">this poster</a>. I’ve used this approach to extract less pulses from the prenuclear region of the utterance and more pulses from the nuclear region, then average multiple pitch contours across the extracted pulses.</p>
+<div class="cell">
+<details open="">
+<summary>Code</summary>
+<div class="sourceCode cell-code" id="cb20"><pre class="sourceCode r code-with-copy"><code class="sourceCode r"><span id="cb20-1"><a href="#cb20-1" aria-hidden="true" tabindex="-1"></a><span class="fu">sessionInfo</span>()</span></code><button title="Copy to Clipboard" class="code-copy-button"><i class="bi"></i></button></pre></div>
+</details>
+<div class="cell-output cell-output-stdout">
+<pre><code>R version 4.2.0 (2022-04-22 ucrt)
+Platform: x86_64-w64-mingw32/x64 (64-bit)
+Running under: Windows 10 x64 (build 19045)
+
+Matrix products: default
+
+locale:
+[1] LC_COLLATE=English_United States.utf8 
+[2] LC_CTYPE=English_United States.utf8   
+[3] LC_MONETARY=English_United States.utf8
+[4] LC_NUMERIC=C                          
+[5] LC_TIME=English_United States.utf8    
+
+attached base packages:
+[1] stats     graphics  grDevices utils     datasets  methods   base     
+
+other attached packages:
+[1] purrr_1.0.0           ggplot2_3.4.0         sosprosody_0.0.0.9000
+[4] rPraat_1.3.2-1        dplyr_1.0.99.9000    
+
+loaded via a namespace (and not attached):
+ [1] pillar_1.8.1      compiler_4.2.0    tools_4.2.0       bit_4.0.4        
+ [5] digest_0.6.31     jsonlite_1.8.4    evaluate_0.19     lifecycle_1.0.3  
+ [9] tibble_3.1.8      gtable_0.3.1      pkgconfig_2.0.3   rlang_1.0.6      
+[13] cli_3.5.0         rstudioapi_0.13   parallel_4.2.0    yaml_2.3.6       
+[17] xfun_0.36         fastmap_1.1.0     withr_2.5.0       stringr_1.5.0    
+[21] knitr_1.41        hms_1.1.1         generics_0.1.3    vctrs_0.5.2      
+[25] htmlwidgets_1.5.4 bit64_4.0.5       grid_4.2.0        tidyselect_1.2.0 
+[29] glue_1.6.2        R6_2.5.1          fansi_1.0.4       vroom_1.5.7      
+[33] rmarkdown_2.14    farver_2.1.1      tzdb_0.3.0        readr_2.1.2      
+[37] magrittr_2.0.3    ellipsis_0.3.2    scales_1.2.1      htmltools_0.5.2  
+[41] colorspace_2.0-3  labeling_0.4.2    utf8_1.2.2        stringi_1.7.8    
+[45] munsell_0.5.0     crayon_1.5.2     </code></pre>
+</div>
+</div>
+
 
 
 </section>
-</section>
 
 
-<div id="quarto-appendix" class="default"><section id="footnotes" class="footnotes footnotes-end-of-document" role="doc-endnotes"><h2 class="anchored quarto-appendix-heading">Footnotes</h2>
+<div id="quarto-appendix" class="default"><section class="quarto-appendix-contents" role="doc-bibliography"><h2 class="anchored quarto-appendix-heading">References</h2><div id="refs" class="references csl-bib-body hanging-indent" role="doc-bibliography">
+<div id="ref-mfa" class="csl-entry" role="doc-biblioentry">
+McAuliffe, Michael, Michaela Socolof, Sarah Mihuc, Michael Wagner, and Morgan Sonderegger. 2017. <span>“<span>Montreal Forced Aligner: Trainable Text-Speech Alignment Using Kaldi</span>.”</span> In <em>Proc. Interspeech 2017</em>, 498–502. <a href="https://doi.org/10.21437/Interspeech.2017-1386">https://doi.org/10.21437/Interspeech.2017-1386</a>.
+</div>
+</div></section><section id="footnotes" class="footnotes footnotes-end-of-document" role="doc-endnotes"><h2 class="anchored quarto-appendix-heading">Footnotes</h2>
 
 <ol>
 <li id="fn1"><p>If you’re having difficulties installing the development version, there’s a few things you can try. You can try restarting your R session, try separately updating any dependencies first (I needed to update <code>vctrs</code> separately), try removing dplyr entirely (<code>remove.packages('dplyr')</code>). If you’re on windows and getting a permissions issue, try running R/RStudio as an administrator.<a href="#fnref1" class="footnote-back" role="doc-backlink">↩</a></p></li>
 <li id="fn2"><p>For the interested, this function works by determining where the interval boundaries are located for each section as indexed by <code>section_by</code>. The timepoints, given by <code>time_by</code>, are then used to create a sequence of equally spaces values (via <code>seq(from, to, length.out)</code>). For each new time value, the corresponding frequency is calculated via linear interpolation of the adjacent pulse frequency values given by <code>.pitchval</code> (default is <code>"hz"</code>). This is done separately for each group given by <code>.grouping</code> (default is <code>"file"</code>).<a href="#fnref2" class="footnote-back" role="doc-backlink">↩</a></p></li>
 <li id="fn3"><p>Note that <code>piecewise_extract_pulses</code> is another similar function, but will not allow for more pulses than what exists in the interval already. Additionally, that function extracts pulses based on modular arithmetic rather than linear interpolation, so any discontinuities are ignored in the result.<a href="#fnref3" class="footnote-back" role="doc-backlink">↩</a></p></li>
 <li id="fn4"><p>Note that because the prenuclear material was associated with an unlabeled tier, the the relevant intervals for the first and second syllables are 2 and 3 instead of 1 and 2.<a href="#fnref4" class="footnote-back" role="doc-backlink">↩</a></p></li>
+<li id="fn5"><p>For those unfamiliar, the general algorithm is: For each interval <span class="math inline">\(i\)</span> with boundary timepoints <span class="math inline">\(t_{i,start}\)</span> and <span class="math inline">\(t_{i,end}\)</span>, for each pulse in that interval with timepoints <span class="math inline">\(t_{i,j}\)</span>, do <span class="math inline">\(t_{i,j}-t_{i,start}\)</span> to get shifted timepoints <span class="math inline">\(t'_{i,j}\)</span>. Then do <span class="math inline">\(t_{i,end}-t_{i,start}\)</span> to get shifted end time <span class="math inline">\(t'_{i,end}\)</span>. Then divide all of <span class="math inline">\(t'_{i,j}\)</span> by <span class="math inline">\(t'_{i,end}\)</span>. The resulting values then have a range of <span class="math inline">\([0,1]\)</span>.<a href="#fnref5" class="footnote-back" role="doc-backlink">↩</a></p></li>
 </ol>
 </section></div></main> <!-- /main -->
 <script id="quarto-html-after-body" type="application/javascript">

diff --git a/_site/index.html b/_site/index.html
@@ -171,7 +171,7 @@ ul.task-list li input[type="checkbox"] {
 
 <div class="quarto-listing quarto-listing-container-default" id="listing-listing">
 <div class="list quarto-listing-default">
-<div class="quarto-post image-right" data-index="0" data-categories="R,Praat" data-listing-date-sort="1674626400000" data-listing-file-modified-sort="1674852900895" data-listing-reading-time-sort="16.68">
+<div class="quarto-post image-right" data-index="0" data-categories="R,Praat" data-listing-date-sort="1674626400000" data-listing-file-modified-sort="1674929877655" data-listing-reading-time-sort="18.375">
 <div class="body">
 <a href="./posts/pulselabeling/pulse_labeling.html">
 <h3 class="no-anchor listing-title">
